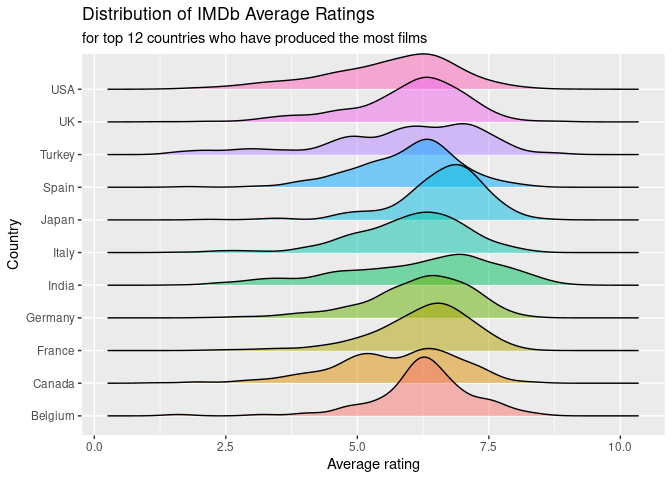
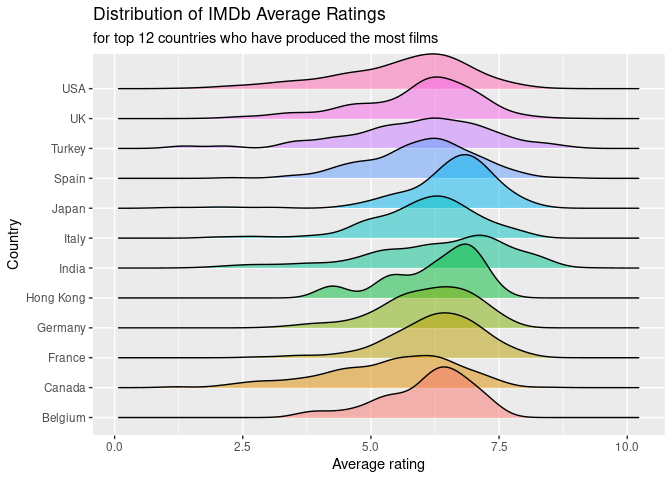
Language visualisation

diff --git a/presentation/xaringan_template/presentation.html b/presentation/xaringan_template/presentation.html
@@ -4,7 +4,7 @@
     <title>Presentation title</title>
     <meta charset="utf-8" />
     <meta name="author" content="Team name   Names of team members" />
-    <meta name="date" content="2021-10-19" />
+    <meta name="date" content="2021-11-19" />
     <script src="libs/header-attrs-2.11/header-attrs.js"></script>
     <link rel="stylesheet" href="xaringan-themer.css" type="text/css" />
   </head>
@@ -16,7 +16,7 @@ class: center, middle, inverse, title-slide
 ## Presentation subtitle (if any)
 ### Team name <br> Names of team members
 ### University of Edinburgh
-### 2021-10-19
+### 2021-11-19
 
 ---
 

diff --git a/proposal/proposal.md b/proposal/proposal.md
@@ -58,80 +58,78 @@ rating site, metascore.
 
 ``` r
 imdb_country <- imdb %>%
-  mutate(country = case_when(
-    country == "Hong Kong" ~ "Hong-Kong",
-    country == "South Korea" ~ "South-Korea",
-    TRUE ~ country)) %>%
-  separate_rows(country)
-  
+   mutate(country = sub("\\ ", "", country)) %>%
+   separate_rows(country, sep = "\\,")
+   
 imdb_country %>%
-  count(country) %>%
-  arrange(desc(n))
+   count(country) %>%
+   arrange(desc(n))
 ```
 
-    ## # A tibble: 226 × 2
-    ##    country     n
-    ##    <chr>   <int>
-    ##  1 USA     34325
-    ##  2 France   8311
-    ##  3 UK       7490
-    ##  4 India    6373
-    ##  5 Italy    5056
-    ##  6 Germany  4909
-    ##  7 Japan    3701
-    ##  8 Canada   3621
-    ##  9 Spain    2731
-    ## 10 Hong     1884
-    ## # … with 216 more rows
+    ## # A tibble: 366 × 2
+    ##    country      n
+    ##    <chr>    <int>
+    ##  1 USA      33304
+    ##  2 France    7374
+    ##  3 UK        6905
+    ##  4 India     6320
+    ##  5 Italy     4695
+    ##  6 Japan     3499
+    ##  7 Canada    3318
+    ##  8 Germany   3033
+    ##  9 Spain     2391
+    ## 10 HongKong  1527
+    ## # … with 356 more rows
 
 ``` r
 imdb_country %>%
-  filter(
-    country == c("USA", "France", "UK", "India", "Italy", "Germany", "Japan", "Canada", "Spain", "Hong-Kong", "Turkey", "Belgium")
-  ) %>%
-  group_by(country) %>%
-  summarise(
-    mean_rating = mean(avg_vote, na.rm = TRUE),
-    median_rating = median(avg_vote, na.rm = TRUE)
-    ) %>%
-  arrange(desc(mean_rating))
+   filter(
+     country == c("USA", "France", "UK", "India", "Italy", "Germany", "Japan", "Canada", "Spain", "Hong Kong", "Turkey", "Belgium")
+   ) %>%
+   group_by(country) %>%
+   summarise(
+     mean_rating = mean(avg_vote, na.rm = TRUE),
+     median_rating = median(avg_vote, na.rm = TRUE)
+     ) %>%
+   arrange(desc(mean_rating))
 ```
 
     ## Warning in country == c("USA", "France", "UK", "India", "Italy", "Germany", :
     ## longer object length is not a multiple of shorter object length
 
-    ## # A tibble: 11 × 3
-    ##    country mean_rating median_rating
-    ##    <chr>         <dbl>         <dbl>
-    ##  1 Japan          6.59          6.7 
-    ##  2 Belgium        6.24          6.3 
-    ##  3 France         6.24          6.4 
-    ##  4 Germany        6.17          6.3 
-    ##  5 India          6.14          6.4 
-    ##  6 Italy          6.00          6.15
-    ##  7 UK             5.99          6.2 
-    ##  8 Spain          5.96          6.1 
-    ##  9 Turkey         5.86          6.15
-    ## 10 Canada         5.71          5.9 
-    ## 11 USA            5.61          5.8
+    ## # A tibble: 12 × 3
+    ##    country   mean_rating median_rating
+    ##    <chr>           <dbl>         <dbl>
+    ##  1 Japan            6.52          6.7 
+    ##  2 India            6.28          6.5 
+    ##  3 France           6.26          6.3 
+    ##  4 Hong Kong        6.22          6.5 
+    ##  5 Germany          6.12          6.2 
+    ##  6 Belgium          6.09          6.3 
+    ##  7 Italy            6.05          6.2 
+    ##  8 Spain            5.99          6.1 
+    ##  9 UK               5.91          6.2 
+    ## 10 Turkey           5.86          6.1 
+    ## 11 USA              5.60          5.85
+    ## 12 Canada           5.38          5.6
 
 ``` r
-imdb_country %>%
-  filter(country == c("USA", "France", "UK", "India", "Italy", "Germany", "Japan", "Canada", "Spain", "Hong-Kong", "Turkey", "Belgium")) %>%
-  ggplot(aes(x = avg_vote, y = country, fill = country)) +
-  geom_density_ridges(alpha = 0.5, show.legend = FALSE) +
-  labs(
-    title = "Distribution of IMDb Average Ratings",
-    subtitle = "for top 12 countries who have produced the most films",
-    x = "Average rating",
-    y = "Country"
-  )
+ imdb_country %>%
+   filter(country == c("USA", "France", "UK", "India", "Italy", "Germany", "Japan", "Canada", "Spain", "Hong Kong", "Turkey", "Belgium")) %>%
+   ggplot(aes(x = avg_vote, y = country, fill = country)) +
+   geom_density_ridges(alpha = 0.5, show.legend = FALSE) +
+   labs(
+     title = "Distribution of IMDb Average Ratings",
+     subtitle = "for top 12 countries who have produced the most films",
+     x = "Average rating",
+     y = "Country"
+   )
 ```
 
     ## Warning in country == c("USA", "France", "UK", "India", "Italy", "Germany", :
     ## longer object length is not a multiple of shorter object length
 
-    ## Picking joint bandwidth of 0.28
+    ## Picking joint bandwidth of 0.308
 
 ![](proposal_files/figure-gfm/data-analysis-country-1.png)<!-- --> After
 filtering for the top 12 countries who produce the largest number of
@@ -282,3 +280,16 @@ imdb %>%
 ![](proposal_files/figure-gfm/data-analysis-duration-1.png)<!-- --> This
 graph reveals there is little to no association between the `avg_vote`
 and `duration` of a movie.
+
+``` r
+imdb %>%
+  separate_rows(language, sep = "\\,") %>%
+  group_by(language) %>%
+  summarise(
+    count = n(),
+    mean = mean(avg_vote)) %>%
+  ggplot(aes(x = count, y = mean, group = language)) +
+  geom_point()
+```
+
+![](proposal_files/figure-gfm/languages-1.png)<!-- -->
